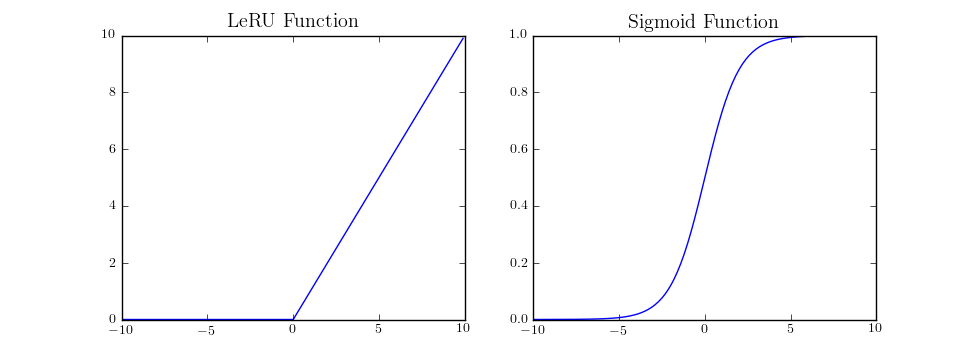
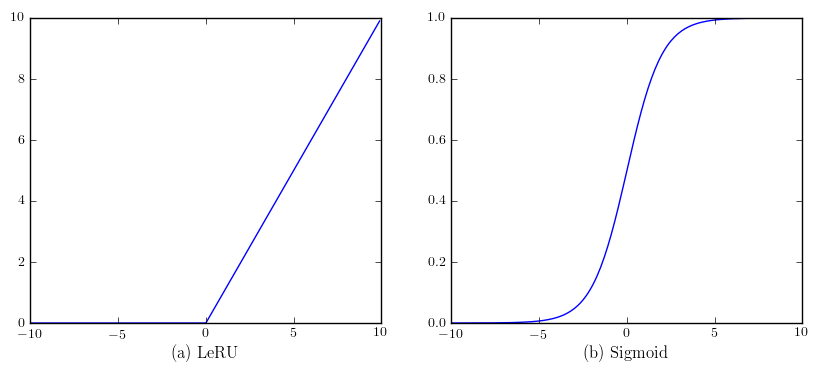
LULC Version 0.1

diff --git a/LULC/map_confusion.py b/LULC/map_confusion.py
@@ -1,0 +1,45 @@
+import numpy as np
+import matplotlib.pyplot as plt
+
+conf_arr = [[33,2,0,0,0,0,0,0,0,1,3], 
+            [3,31,0,0,0,0,0,0,0,0,0], 
+            [0,4,41,0,0,0,0,0,0,0,1], 
+            [0,1,0,30,0,6,0,0,0,0,1], 
+            [0,0,0,0,38,10,0,0,0,0,0], 
+            [0,0,0,3,1,39,0,0,0,0,4], 
+            [0,2,2,0,4,1,31,0,0,0,2],
+            [0,1,0,0,0,0,0,36,0,2,0], 
+            [0,0,0,0,0,0,1,5,37,5,1], 
+            [3,0,0,0,0,0,0,0,0,39,0], 
+            [0,0,0,0,0,0,0,0,0,0,38]]
+
+norm_conf = []
+for i in conf_arr:
+    a = 0
+    tmp_arr = []
+    a = sum(i, 0)
+    for j in i:
+        tmp_arr.append(float(j)/float(a))
+    norm_conf.append(tmp_arr)
+
+fig = plt.figure()
+plt.clf()
+ax = fig.add_subplot(111)
+ax.set_aspect(1)
+res = ax.imshow(np.array(norm_conf), cmap=plt.cm.jet, 
+                interpolation='nearest')
+
+width = len(conf_arr)
+height = len(conf_arr[0])
+
+for x in xrange(width):
+    for y in xrange(height):
+        ax.annotate(str(conf_arr[x][y]), xy=(y, x), 
+                    horizontalalignment='center',
+                    verticalalignment='center')
+
+cb = fig.colorbar(res)
+alphabet = 'ABCDEFGHIJKLMNOPQRSTUVWXYZ'
+plt.xticks(range(width), alphabet[:width])
+plt.yticks(range(height), alphabet[:height])
+plt.savefig('confusion_matrix.png', format='png')

diff --git a/cartography/CNN-Foundation/relu_sigmoid.py b/cartography/CNN-Foundation/relu_sigmoid.py
@@ -11,14 +11,14 @@ import numpy as np
 import matplotlib.pyplot as plt
 from matplotlib import rcParams
 # rcParams dict
-rcParams['axes.labelsize'] = 10
+rcParams['axes.labelsize'] = 12
 rcParams['xtick.labelsize'] = 10
 rcParams['ytick.labelsize'] = 10
 rcParams['legend.fontsize'] = 10
 rcParams['font.family'] = 'serif'
 rcParams['font.serif'] = ['Computer Modern Roman']
 rcParams['text.usetex'] = True
-rcParams['figure.figsize'] = 7, 5
+rcParams['figure.figsize'] = 7, 6
 
 def relu(x):
     return np.max([x, 0])
@@ -30,12 +30,14 @@ if __name__ == "__main__":
     x = np.arange(-10,10,0.1)
     np_relu = np.vectorize(relu)
     y = np_relu(x)
-    plt.subplot(121)
+    ax1 = plt.subplot(121)
     plt.plot(x,y,'b-')
-    plt.title("LeRU Function")
+    #plt.title("LeRU")
+    ax1.set_xlabel('(a) LeRU')
     
     np_sigmoid = np.vectorize(sigmoid)
     y = np_sigmoid(x)
-    plt.subplot(122)
+    ax2 = plt.subplot(122)
     plt.plot(x,y,'b-')
-    plt.title("Sigmoid Function")
+    #plt.title("Sigmoid")
+    ax2.set_xlabel('(b) Sigmoid')

diff --git a/cartography/CNN-Foundation/gabor_convolutional.py b/cartography/CNN-Foundation/gabor_convolutional.py
@@ -52,14 +52,16 @@ axes[0][0].axis('off')
 
 # Plot Source image
 axes[1][0].imshow(test)
-axes[1][0].set_title("Input image", fontsize=11)
+#axes[1][0].set_title("Input image", fontsize=11)
+
 axes[1][0].axis('off')
 
 for label, (kernel, power), idx in zip(kernel_params, results, range(1,5)):
     # Plot Gabor kernel
     ax = axes[0,idx]
     ax.imshow(np.real(kernel), interpolation='nearest')
-    ax.set_title(label, fontsize=11)
+    #ax.set_title(label, fontsize=11)
+    
     ax.set_xticks([])
     ax.set_yticks([])
 
